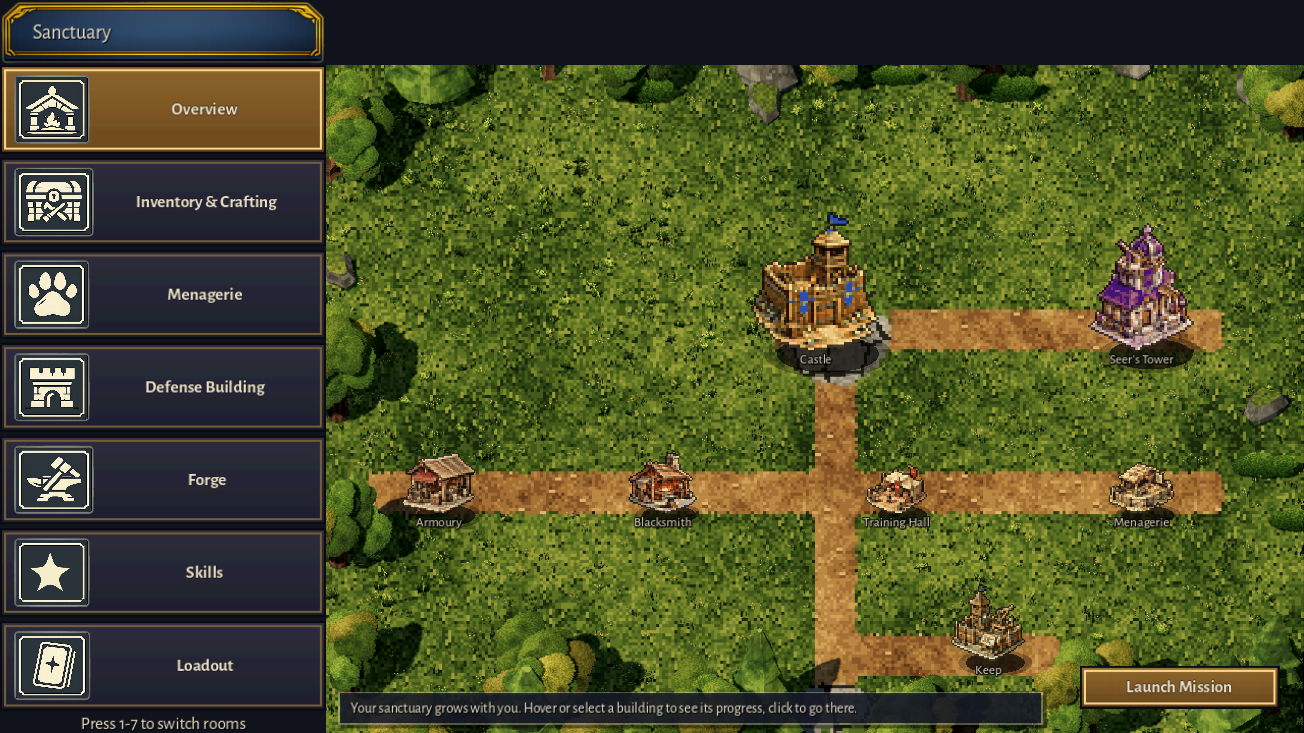
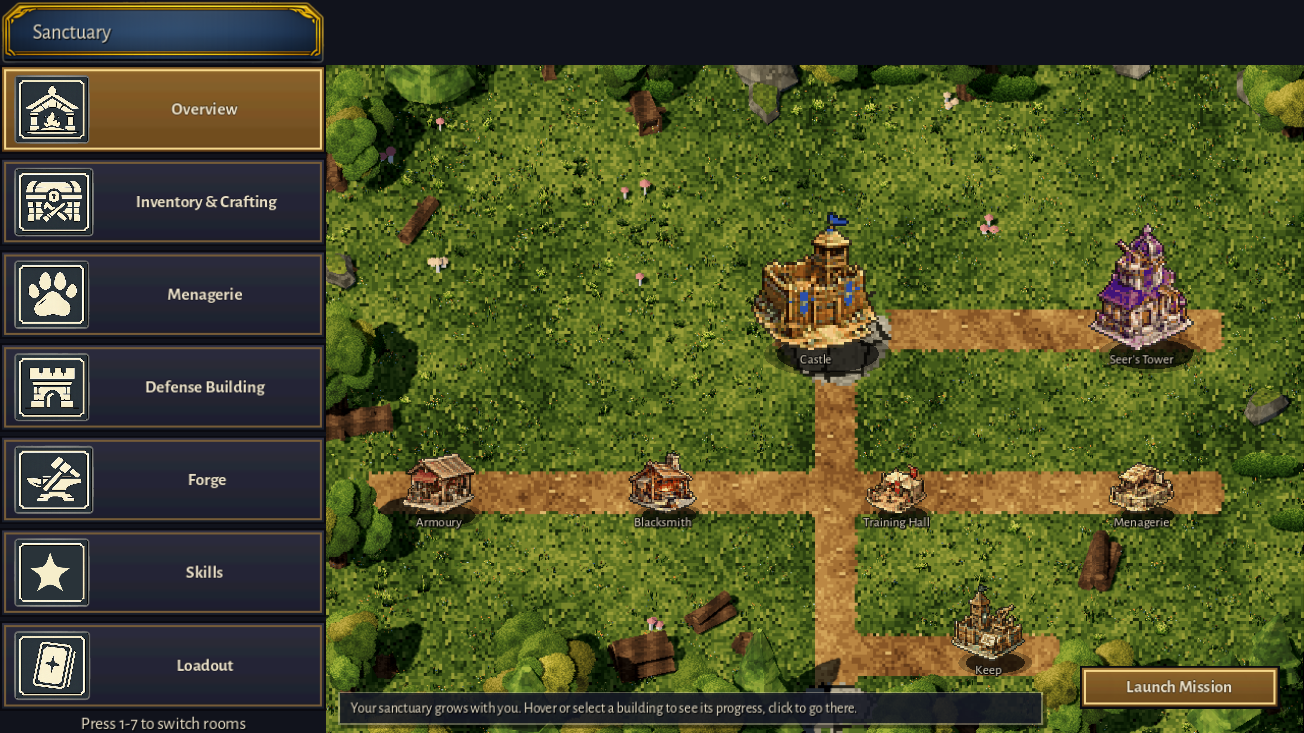
Sanctuary town: 24 debris props, most on open grass, kept off building art
New profile knob debris_field_share sends that share of debris to open
in-grid ground (town only; missions keep 0 and draw nothing extra from the
kit stream, so their debris is unchanged). Hd2dScenery.keep_out lets the
town backdrop pass building art rects so no log peeks out from behind a
building button. Adds log piles, a square stump and tall mushrooms from the
Kenney kit. Live-verified; screenshot docs/images/kit-props-sanctuary.png.

diff --git a/production/art-overhaul-status.md b/production/art-overhaul-status.md
@@ -55,7 +55,7 @@
 | Sanctuary town diorama (HD-2D) | `done` | `Hd2dTownBackdrop` + `sanctuary_town_scenery.tres`; buildings pixelated. |
 | Main menu backdrop | `kept` | Already pixel art in the HD-2D style; a live 3D town diorama can replace it on request (Hd2dTownBackdrop reuse). |
 | Sanctuary building shadows + shorter grass | `done` | 2026-10-12: TownBuildingView draws a GroundShadow (GroundShadow.draw_on) under the visible art base, 80% of its width. grass_height_px cut twice by ~35% in all five profiles (Gap 20, Foothills 18, Hollow 16, Narrows 13, town 11; default 14); building shadows 1.9x unit alpha. Live-verified (Sanctuary + The Gap). |
-| Kenney kit props + Poly Haven textures in all five profiles | `done` | 2026-10-15: 24 CC0 Kenney Nature Kit meshes (`assets/art/hd2d/kit/`) replace the primitive rocks, spires, pines, landmark columns and rubble, plus a new stump/log/mushroom `debris` pass. Every surface is reskinned with project pixel textures (world triplanar at `ground_texel_px`). New textures: Poly Haven scans palette-reduced (`photo_sets()` → `*kit_rock`, `kit_ruin_stone`) and opaque `*kit_foliage`. Layouts are unchanged (the kit draws from its own RNG). Live-verified 2026-10-15 in The Gap, with the Narrows/Foothills/Hollow profiles rebuilt on The Gap's grid. That pass greened the Gap pines (`kit_foliage` → LEAF_PALETTE, contrast-stretched), added `kit_rock_tint` (default 0.8, Hollow 1.0). Screenshots `docs/images/kit-props-*.png` (Sanctuary town checked too: 3D pines + boulders, no layout change). |
+| Kenney kit props + Poly Haven textures in all five profiles | `done` | 2026-10-15: 24 CC0 Kenney Nature Kit meshes (`assets/art/hd2d/kit/`) replace the primitive rocks, spires, pines, landmark columns and rubble, plus a new stump/log/mushroom `debris` pass. Every surface is reskinned with project pixel textures (world triplanar at `ground_texel_px`). New textures: Poly Haven scans palette-reduced (`photo_sets()` → `*kit_rock`, `kit_ruin_stone`) and opaque `*kit_foliage`. Layouts are unchanged (the kit draws from its own RNG). Live-verified 2026-10-15 in The Gap, with the Narrows/Foothills/Hollow profiles rebuilt on The Gap's grid. That pass greened the Gap pines (`kit_foliage` → LEAF_PALETTE, contrast-stretched), added `kit_rock_tint` (default 0.8, Hollow 1.0). Screenshots `docs/images/kit-props-*.png` (Sanctuary town: 3D pines + boulders; 24 debris, 65% in the open field via `debris_field_share`, kept off building art by `Hd2dScenery.keep_out` from `Hd2dTownBackdrop.building_keep_out()`). |
 
 ## Production architecture (blocking)
 
